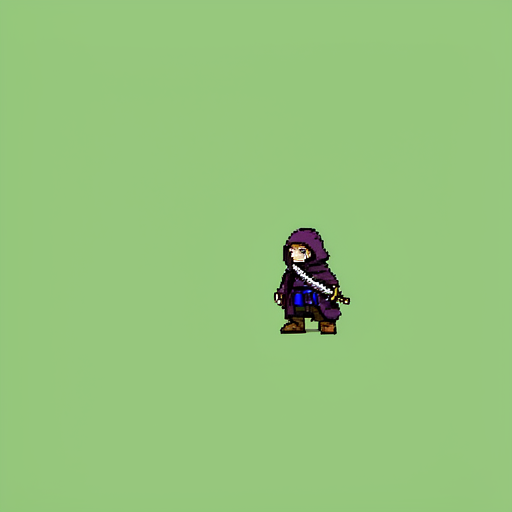
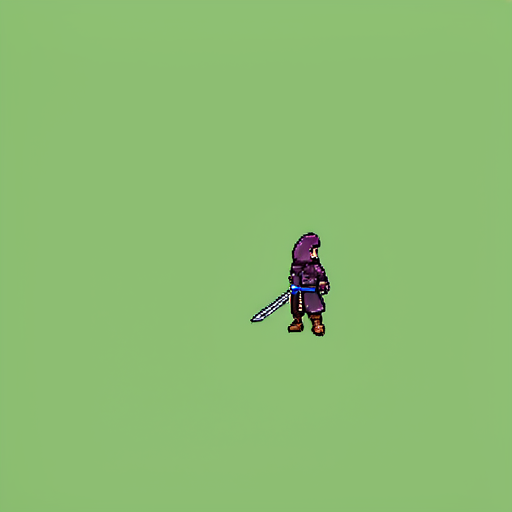
FE battle art: cool-pass swing + size fix + FE footwork gesture
- Swing regenerated from REAL attack contact frame (Eirika f8, 61px
  extension) + 'intense/dynamic/cape blown back' style tags — reads as
  a dramatic slash, not cute.
- Swing flipped: blade leads RIGHT (dash direction) — stand/swing now
  consistent.
- Size: hero _baseScale 0.56 = ~40px figure (chibi height, slimmer
  FE proportions); breathing loop + suspendIdle now scale-relative
  (_baseScale) instead of resetting custom scales to 1.
- strikeGesture rewrite: NO more rotation wiggle (FE units don't tilt) —
  step-back anticipation → easeIn dash to contact (90ms) → hold 260ms
  while hit lands → quick settle. Chibi-sheet members get the same
  footwork (no more wiggles for them either).
- Verified live: dash 40→33→54→40 restored, base-scale preserved
  (sx 0.55 during idle), contact frame dramatic; E2E soren+spritekey
  14 passed.

Changed region(s): [[0.5, 0.4375, 0.6875, 0.6562]]

diff --git a/src/scenes/BattleScene.js b/src/scenes/BattleScene.js
@@ -82,7 +82,8 @@ export default class BattleScene extends Phaser.Scene {
         sprite._isSprite = true;
         sprite._sheet = feKey;
         sprite._fePair = true;     // gestures use frames 0/1 (not 4/7)
-        sprite.setScale(0.72);     // 52x72 cell → ~37x52: figure ≈1.1x chibi height
+        sprite._baseScale = 0.56;  // breathing + suspend restore THIS, not 1
+        sprite.setScale(0.56);     // 67x72 cell → display figure ≈40px (chibi height, slimmer/taller read)
         sprite.setOrigin(0.5, 1.0);
         sprite.y = 122;            // feet anchored to the ground strip
         sprite._homeY = sprite.y;
@@ -1040,34 +1041,54 @@ export default class BattleScene extends Phaser.Scene {
 
   strikeGesture(attackerSprite, dir, onContact) {
     if (!attackerSprite) { onContact(); return; }
-    const origRot = 0;
     const origX = attackerSprite.x;
-    const LEAN_MS = 110;   // wind-up
-    const SNAP_MS = 90;    // strike
-    const HOLD_MS = 70;    // hold through the flash frame
-    // Sheet attackers: slash pose = jump frame (row1 col3 for left-slide,
-    // row2 col3 for right-slide read best) — swap frames through the phases.
+    // FE-style footwork (no rotation wiggles — FE units don't tilt):
+    //  step back (wind-up) → DASH to the target (fast) → swing lands →
+    //  quick settle back. Distances in game-px; ~0.55s total, matches FE pacing.
+    const STANCE_MS = 130;   // step-back anticipation
+    const DASH_MS = 90;      // dash to contact — the fast part
+    const HOLD_MS = 260;     // held at contact while hit lands (FE holds hard)
+    const SETTLE_MS = 170;
     const isSheet = !!(attackerSprite._sheet && attackerSprite.setTexture);
-    if (isSheet) this.suspendIdle(attackerSprite);
-    // FE-pair heroes: frame 0 = stand, 1 = swing (2-frame gesture); else sheet frames
-    if (attackerSprite._fePair) attackerSprite.setFrame(0);
-    else if (isSheet) attackerSprite.setFrame(4); // row1 col0 — step wind-up
-    // wind-up: lean AWAY from target (rotate ±14° back + slight pull-back)
-    this._tweenRot(attackerSprite, origRot, -0.26 * dir, origX, origX - 6 * dir, LEAN_MS, () => {
-    if (attackerSprite._fePair) attackerSprite.setFrame(1); // FE swing frame
-    else if (isSheet) attackerSprite.setFrame(7); // row2 col3 = jump/strike (sword extended)
-      // strike: whip TOWARD target (rotate ±26° forward)
-      this._tweenRot(attackerSprite, -0.26 * dir, 0.42 * dir, origX - 6 * dir, origX + 10 * dir, SNAP_MS, () => {
-        onContact();  // flash/shake/damage fire at the snap's end
+    const fePair = !!attackerSprite._fePair;
+    if (isSheet || fePair) this.suspendIdle(attackerSprite);
+    const backX = origX - 7 * dir;
+    const contactX = origX + 14 * dir;
+    // frame: wind-up (FE pair frame 0 held; sheet = walk-step frame 4)
+    if (fePair) attackerSprite.setFrame(0);
+    else if (isSheet) attackerSprite.setFrame(4);
+    this._tweenX(attackerSprite, origX, backX, STANCE_MS, () => {
+      // contact frame
+      if (fePair) attackerSprite.setFrame(1);   // FE swing frame
+      else if (isSheet) attackerSprite.setFrame(7); // sheet strike pose
+      this._tweenX(attackerSprite, backX, contactX, DASH_MS, () => {
+        onContact();  // flash/shake/damage fire as the dash lands
         setTimeout(() => {
-          if (attackerSprite._fePair) attackerSprite.setFrame(0); // FE stand
-          else if (isSheet) attackerSprite.setFrame(1); // stand
-          this.resumeIdle(attackerSprite);
-          // settle back to identity
-          this._tweenRot(attackerSprite, 0.42 * dir, origRot, origX + 10 * dir, origX, 160, null);
-        }, HOLD_MS);
+          if (fePair) attackerSprite.setFrame(0);
+          else if (isSheet) attackerSprite.setFrame(1);
+          this._tweenX(attackerSprite, contactX, origX, SETTLE_MS, () => {
+            this.resumeIdle(attackerSprite);
+          });
+        }, HOLD_MS - DASH_MS > 0 ? HOLD_MS - DASH_MS : 0);
       });
     });
+  }
+
+  _tweenX(sprite, fromX, toX, ms, done) {
+    const t0 = performance.now();
+    const step = () => {
+      const e = performance.now() - t0;
+      if (e < ms) {
+        const t = e / ms;
+        const ease = t * t; // easeIn — accel into the dash, reads as commitment
+        sprite.x = fromX + (toX - fromX) * ease;
+        requestAnimationFrame(step);
+      } else {
+        sprite.x = toX;
+        if (done) done();
+      }
+    };
+    requestAnimationFrame(step);
   }
 
   _tweenRot(sprite, fromR, toR, fromX, toX, ms, done) {
@@ -1209,9 +1230,11 @@ export default class BattleScene extends Phaser.Scene {
       const phase = ((s.x * 7 + s.y * 13) % PERIOD) / PERIOD; // stable per-sprite offset
       const w = Math.sin((now - t0) / PERIOD * Math.PI * 2 + phase * Math.PI * 2);
       // squash-stretch: breath in = up + thin, breath out = down + wide
+      // (relative to the sprite's base scale — custom-scale sprites keep it)
+      const bs = (s._baseScale ?? 1);
       s.y = s._homeY !== undefined ? s._homeY : (s._homeY = s.y);
-      s.scaleY = 1 + 0.03 * w;
-      s.scaleX = 1 - 0.02 * w;
+      s.scaleY = bs * (1 + 0.03 * w);
+      s.scaleX = bs * (1 - 0.02 * w);
       s.y = s._homeY - Math.max(0, w) * 1.5; // rise 1.5px on inhale only
     }
     this._idleRaf = requestAnimationFrame(this._idleStep);
@@ -1220,7 +1243,10 @@ export default class BattleScene extends Phaser.Scene {
   suspendIdle(sprite) {
     if (!sprite) return;
     this._idleSuspended.add(sprite);
-    sprite.scaleX = 1; sprite.scaleY = 1;
+    // restore the sprite's BASE scale (breathing writes absolute 1±w — sprites
+    // with a custom base scale, e.g. FE-pair 0.56, must not get reset to 1)
+    sprite.scaleX = (sprite._baseScale ?? 1);
+    sprite.scaleY = (sprite._baseScale ?? 1);
     if (sprite._homeY !== undefined) sprite.y = sprite._homeY;
   }
 

diff --git a/src/scenes/BootScene.js b/src/scenes/BootScene.js
@@ -52,10 +52,10 @@ export default class BootScene extends Phaser.Scene {
         { frameWidth: 16, frameHeight: 24, endFrame: 12 });
     });
     // Phase 10b: FE-proportioned i2i frames (Choo's art call). 2-frame pair
-    // sheet (104x72, frames 104x72: stand + swing) — if present, the hero
-    // battle sprite becomes an FE-style FE-scale figure (52x72 at 2x display).
+    // pair sheet (cells 67x72: 0 = stand, 1 = swing-right) — hero slot uses
+    // it if present (FE-proportioned i2i figure, displayed at _baseScale 0.56).
     this.load.spritesheet('fesheet_soren_battle', 'sprites/battle/fe_soren_pair.png',
-      { frameWidth: 52, frameHeight: 72, endFrame: 2 });
+      { frameWidth: 67, frameHeight: 72, endFrame: 2 });
     // Phase 9: themed tileset strips (fallback to programmatic if missing)
     ['town_tiles', 'dgn_ember', 'dgn_tide', 'dgn_hollow', 'dgn_spire', 'dgn_ruins'].forEach((key) => {
       this.load.image(`${key}_ai`, `sprites/tiles/${key}.png`);

diff --git a/design-spike/bin/gen_fe_frames_i2i.py b/design-spike/bin/gen_fe_frames_i2i.py
@@ -25,7 +25,7 @@ NEG = ("blurry, lowres, 3d render, realistic, photo, watermark, text, grid, shee
 # pose → (reference file, denoise). Reference copies must exist in INP.
 POSES = {
     "stand":       ("fe_ref_eirika.png",      0.55),
-    "swing":       ("fe_ref_swing.png",       0.60),
+    "swing":       ("fe_ref_swing.png",       0.58),
 }
 
 def post_json(path, payload, timeout=300):
@@ -34,7 +34,10 @@ def post_json(path, payload, timeout=300):
     return json.load(urllib.request.urlopen(req, timeout=timeout))
 
 def gen(char, pose, ref, dn, seed):
-    POS = (f"pixel art of a single small sprite: {IDENT[char]} for pose '{pose}'. "
+    COOL = ("intense battle stance, dynamic action pose, dramatic cape and hood blown "
+            "back by motion, gripping the sword two-handed mid-slash, sharp fierce glare, "
+            "battle-worn, GBA fire emblem battle animation frame")
+    POS = (f"pixel art of a single small sprite: {IDENT[char]}. {COOL if pose=='swing' else 'calm ready stance'}. "
            "GBA fire emblem battle sprite. THE SPRITE IS TINY: about 36 pixels tall on "
            "a large empty canvas, centered, realistic proportions, dark #282828 single "
            "pixel outline, limited 16 color palette, solid green background, side view "
